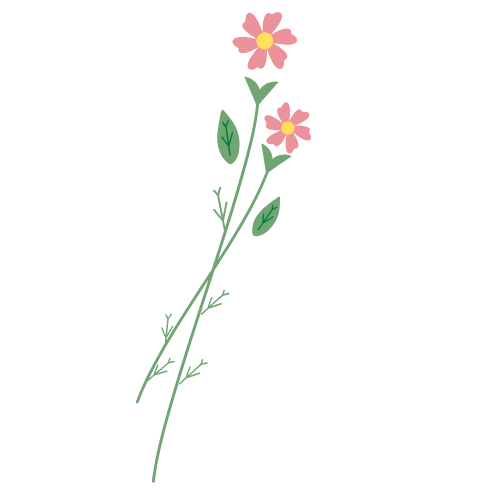
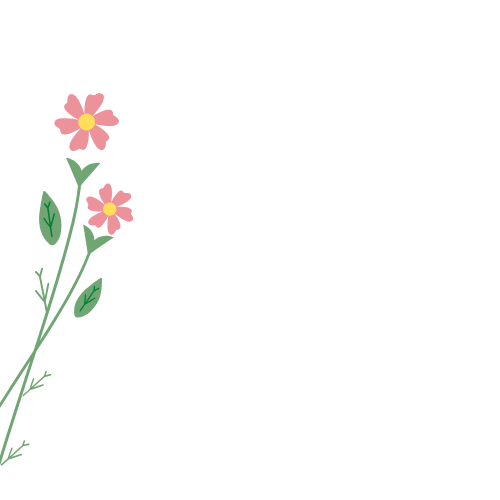
se cambia la imagen de la flores left y se da estilo a la pagina

diff --git a/src/Components/MainPrimary/MainPrimary.js b/src/Components/MainPrimary/MainPrimary.js
@@ -1,11 +1,19 @@
 import React from 'react';
+import './MainPrimary.css'
 
 function MainPrimary() {
     return (
-        <div>
-            <img alt='ProfilePhoto' src='https://github.com/KARENLABO/PORTFOLIO/blob/master/src/img/LOGO%20KAREN%20GRANDE.png?raw=true' />
-            <img alt='flowersLeft' src='https://github.com/KARENLABO/PORTFOLIO/blob/master/src/img/FLORES%20LEFT.png?raw=true' />
-            <img alt='flowersRigth' src='https://github.com/KARENLABO/PORTFOLIO/blob/master/src/img/FLORES%20RIGTH.png?raw=true' />
+        <div className='principalHome'>
+            <div>
+                <img alt='flowersLeft' src='https://github.com/KARENLABO/PORTFOLIO/blob/master/src/img/FLORES%20LEFT.png?raw=true' />
+            </div>
+            <div>
+                <img alt='ProfilePhoto' src='https://github.com/KARENLABO/PORTFOLIO/blob/master/src/img/LOGO%20GRANDE%20.png?raw=true' />
+
+            </div>
+            <div>
+                <img alt='flowersRigth' src='https://github.com/KARENLABO/PORTFOLIO/blob/master/src/img/FLORES%20RIGTH.png?raw=true' />
+            </div>
         </div>
     )
 }

diff --git a/src/Components/MainPrimary/MainPrimary.css b/src/Components/MainPrimary/MainPrimary.css
@@ -1,0 +1,4 @@
+.principalHome{
+    display: flex;
+    flex-wrap: nowrap;
+}
